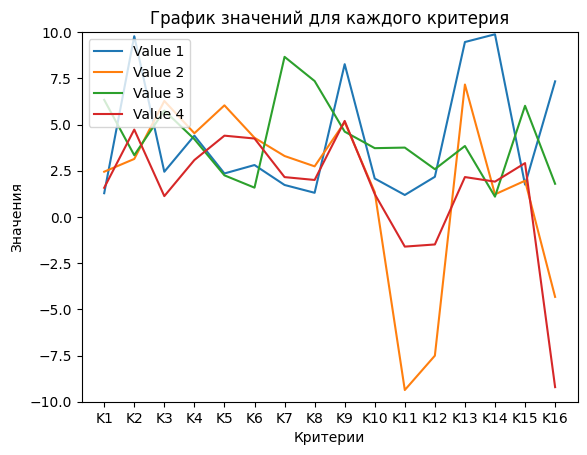
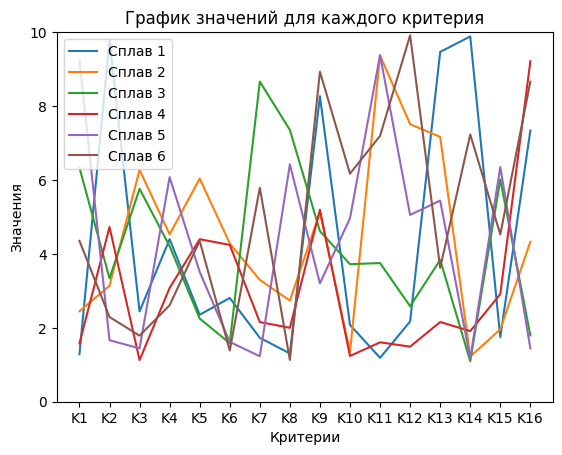
График

Changed region(s): [[0.0605, 0.0, 0.9982, 0.9846], [0.0, 0.4615, 0.0605, 0.5538], [0.363, 0.2154, 0.3932, 0.2462]]

diff --git a/main.py b/main.py
@@ -37,6 +37,7 @@ def dropdown_select(selected_alloy):
 # Функция для вычисления К1
 def calculate_K1(lambda_value, sigma_B, alpha, E):
     result = ((lambda_value * (sigma_B * 10 ** 6)) / ((alpha * 10 ** (-6)) * E * 10 ** 9))
+    result = abs(result)
     scientific, mantissa = scientific_notation(result)
     return scientific, result, mantissa
 
@@ -44,13 +45,14 @@ def calculate_K1(lambda_value, sigma_B, alpha, E):
 # Функция для вычисления К2
 def calculate_K2(lambda_value, delta, alpha, E):
     result = (lambda_value * delta) / ((alpha * 10 ** -6) * E * 10 ** 9) * 10 ** -5
+    result = abs(result)
     scientific, mantissa = scientific_notation(result)
     return scientific, result, mantissa
-
 
 # Функция для вычисления К3
 def calculate_K3(lambda_value, KSU, alpha, E):
     result = ((lambda_value * (KSU)) / ((alpha * 10 ** -6) * E * 10 ** 9))
+    result = abs(result)
     scientific, mantissa = scientific_notation(result)
     return scientific, result, mantissa
 
@@ -58,6 +60,7 @@ def calculate_K3(lambda_value, KSU, alpha, E):
 # Функция для вычисления К4
 def calculate_K4(lambda_value, c, alpha, rho):
     result = (lambda_value / ((alpha * 10 ** -6) * c * rho)) * 10 ** -2
+    result = abs(result)
     scientific, mantissa = scientific_notation(result)
     return scientific, result, mantissa
 
@@ -66,6 +69,7 @@ def calculate_K4(lambda_value, c, alpha, rho):
 def calculate_K5(lambda_value, c, rho, alpha, E):
     a = calculate_a(lambda_value, c, rho)
     result = (a / ((alpha * 10 ** -6) * E * 10 ** 9)) * 10 ** -13
+    result = abs(result)
     scientific, mantissa = scientific_notation(result)
     return scientific, result, mantissa
 
@@ -73,6 +77,7 @@ def calculate_K5(lambda_value, c, rho, alpha, E):
 # Функция для вычисления К6
 def calculate_K6(sigma_B, mu, alpha, E):
     result = ((sigma_B * 10 ** 6) * (1 - mu)) / ((alpha * 10 ** -6) * E * 10 ** 9)
+    result = abs(result)
     scientific, mantissa = scientific_notation(result)
     return scientific, result, mantissa
 
@@ -81,6 +86,7 @@ def calculate_K6(sigma_B, mu, alpha, E):
 def calculate_K7(lambda_value, c, rho, sigma_B, mu, alpha, E):
     a = calculate_a(lambda_value, c, rho)
     result = (a * (sigma_B * 10 ** 6) * (1 - mu)) / ((alpha * 10 ** -6) * E * 10 ** 9)
+    result = abs(result)
     scientific, mantissa = scientific_notation(result)
     return scientific, result, mantissa
 
@@ -88,6 +94,7 @@ def calculate_K7(lambda_value, c, rho, sigma_B, mu, alpha, E):
 # Функция для вычисления К8
 def calculate_K8(sigma_B, HRC, E):
     result = (sigma_B * 10 ** 6) / (HRC * (E * 10 ** 9))
+    result = abs(result)
     scientific, mantissa = scientific_notation(result)
     return scientific, result, mantissa
 
@@ -95,15 +102,16 @@ def calculate_K8(sigma_B, HRC, E):
 # Функция для вычисления К9
 def calculate_K9(sigma_0_2, tau, alpha):
     result = (sigma_0_2 * 10 ** 6) / (tau * (alpha * 10 ** -6))
+    result = abs(result)
     scientific, mantissa = scientific_notation(result)
     return scientific, result, mantissa
-
 
 # Функция для вычисления К10
 def calculate_K10(t_k, t_f, alpha, E, mu, sigma_0_2):
     delta_t = calculate_delta_t(t_k, t_f)
     sigma_0_2_t_max = calculate_sigma_0_2_t_max(alpha, E, delta_t, mu)
     result = sigma_0_2_t_max / sigma_0_2
+    result = abs(result)
     scientific, mantissa = scientific_notation(result)
     return scientific, result, mantissa
 
@@ -113,22 +121,28 @@ def calculate_K11(delta, alpha, mu, t_k, t_f, sigma_0_2, E):
     delta_t = calculate_delta_t(t_k, t_f)
     result = (delta / (2 * (
             ((alpha * 10 ** -6 * delta_t) / (1 - mu)) - ((2 * (sigma_0_2 * 10 ** 6)) / (E * 10 ** 9)))))
+    result = abs(result)
     scientific, mantissa = scientific_notation(result)
     return scientific, result, mantissa
-
 
 # Функция для вычисления К12
 def calculate_K12(KSU, sigma_0_2, alpha, t_k, E):
     result = (KSU / (sigma_0_2 * 10 ** -6 * (
             ((alpha * 10 ** -6) * t_k) - (2 * (sigma_0_2 * 10 ** 6)) / (E * 10 ** 9))))
+    result = abs(result)
     scientific, mantissa = scientific_notation(result)
     return scientific, result, mantissa
+
+
+
+
 
 
 # Функция для вычисления К13
 def calculate_K13(sigma_B, psi, sigma_0_2, alpha, t_k, t_f):
     delta_t = calculate_delta_t(t_k, t_f)
     result = (((sigma_B * 10 ** 6) * psi) / (sigma_0_2 * (1 - (psi ** 2)) * alpha * delta_t))
+    result = abs(result)
     scientific, mantissa = scientific_notation(result)
     return scientific, result, mantissa
 
@@ -138,9 +152,9 @@ def calculate_K14(sigma_B, delta, psi, sigma_0_2, E, alpha, t_k, t_f):
     delta_t = calculate_delta_t(t_k, t_f)
     result = ((((sigma_B * 10 ** 6) * (1 + delta + psi) - sigma_0_2 * 10 ** 6) / (
             E * 10 ** 9 * (alpha * 10 ** -6 * delta_t) ** 2)))
+    result = abs(result)
     scientific, mantissa = scientific_notation(result)
     return scientific, result, mantissa
-
 
 # Функция для вычисления К15
 def calculate_K15(sigma_B, alpha, t_k, t_f, mu, sigma_0_2, E):
@@ -149,6 +163,7 @@ def calculate_K15(sigma_B, alpha, t_k, t_f, mu, sigma_0_2, E):
     denominator = (((sigma_0_2 * 10 ** 6) / (E * 10 ** 9)) + ((alpha * 10 ** -6 * delta_t) / (1 - mu)) * (
             (alpha * 10 ** -6 * delta_t * E * 10 ** 9) / (1 - mu)))
     result = ((numerator / denominator) ** 2)  # *10**3
+    result = abs(result)
     scientific, mantissa = scientific_notation(result)
     return scientific, result, mantissa
 
@@ -159,6 +174,7 @@ def calculate_K16(psi, alpha, t_k, t_f, mu, sigma_0_2, E):
     numerator = math.log(1 / (1 - psi))
     denominator = ((2 * (((alpha * 10 ** -6) * delta_t) / (1 - mu))) - (4 * ((sigma_0_2 * 10 ** 6) / (E * 10 ** 9))))
     result = (numerator / denominator)
+    result = abs(result)
     scientific, mantissa = scientific_notation(result)
     return scientific, result, mantissa
 
@@ -361,12 +377,12 @@ def plot_and_save_graph(data, output_filename='graph.png'):
     num_values = len(values[0])  # Предполагаем, что все столбцы имеют одинаковую длину
 
     for i in range(num_values):
-        plt.plot(criteria, [values[j][i] for j in range(len(criteria))], label=f'Value {i + 1}')
+        plt.plot(criteria, [values[j][i] for j in range(len(criteria))], label=f'Сплав {i + 1}')
 
     plt.xlabel('Критерии')
     plt.ylabel('Значения')
     plt.legend(loc='upper left')
-    plt.ylim(-10, 10)  # Установите диапазон значений по вертикали
+    plt.ylim(1, 10)  # Установите диапазон значений по вертикали
     plt.title('График значений для каждого критерия')
 
     # Сохранение графика в файл PNG
